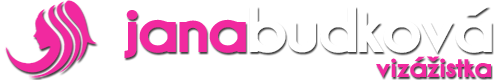
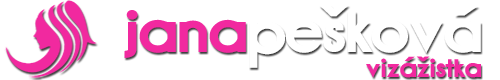
changing name

diff --git a/JaninaPHPWeb/header.php b/JaninaPHPWeb/header.php
@@ -7,7 +7,7 @@
                 <span class="icon-bar"></span>
                 <span class="icon-bar"></span>
             </button>
-            <a class="navbar-brand" href="/uvod/" title="Jana Budková - líčení, vizážistika, poradenství - Praha, Slaný a okolí"><img class="img-title" src="/images/title-final2.png" alt="Jana Budková"/></a>
+            <a class="navbar-brand" href="/uvod/" title="Jana Pešková - líčení, vizážistika, poradenství - Praha, Slaný a okolí"><img class="img-title" src="/images/title-final2.png" alt="Jana Pešková"/></a>
         </div>
         <div class="navbar-collapse collapse">
             <ul class="nav navbar-nav">
@@ -29,7 +29,7 @@
                 </li>
                 <li><a title="Galerie - svatební líčení, foto make-up" href="/galerie/"><span class="glyphicon glyphicon-picture"></span> Fotogalerie</a></li>
                 <li><a title="Kontakty - email, telefon, facebook" href="/kontakty/"><span class="glyphicon glyphicon-envelope"></span> Kontakty</a></li>
-                <li><a title="Jana Budková - o mně, reference" href="/omne/"><span class="glyphicon glyphicon-user"></span> O mně</a></li>
+                <li><a title="Jana Pešková - o mně, reference" href="/omne/"><span class="glyphicon glyphicon-user"></span> O mně</a></li>
             </ul>
         </div>
 

diff --git a/JaninaPHPWeb/omne.php b/JaninaPHPWeb/omne.php
@@ -51,7 +51,7 @@
 
                 </div>
                 <div class="col-md-5">
-                    <img title="Jana Budková - vizážistka" class="myphoto img-responsive" src="/images/me.jpg" alt="Jana Budková"  width="250"/>
+                    <img title="Jana Pešková - vizážistka" class="myphoto img-responsive" src="/images/me.jpg" alt="Jana Pešková"  width="250"/>
                 </div>
             </div>
 

diff --git a/JaninaPHPWeb/foto-makeup.php b/JaninaPHPWeb/foto-makeup.php
@@ -8,7 +8,7 @@
         <meta name="author" content="">
         <link rel="shortcut icon" href="/icons/title-icon.png">
 
-        <title>Foto make-up | Jana Budková | Líčení | Praha, Slaný a okolí</title>
+        <title>Foto make-up | Jana Pešková | Líčení | Praha, Slaný a okolí</title>
 
         <!-- Bootstrap core CSS -->
         <link href="/js/libs/twitter-bootstrap/css/bootstrap.css" rel="stylesheet">

diff --git a/JaninaPHPWeb/galerie.php b/JaninaPHPWeb/galerie.php
@@ -8,7 +8,7 @@
         <meta name="author" content="">
         <link rel="shortcut icon" href="/icons/title-icon.png">
 
-        <title>Vizážistka | Jana Budková | Líčení | Praha, Slaný a okolí</title>
+        <title>Vizážistka | Jana Pešková | Líčení | Praha, Slaný a okolí</title>
 
         <!-- Bootstrap core CSS -->
         <link href="/js/libs/twitter-bootstrap/css/bootstrap.css" rel="stylesheet">
